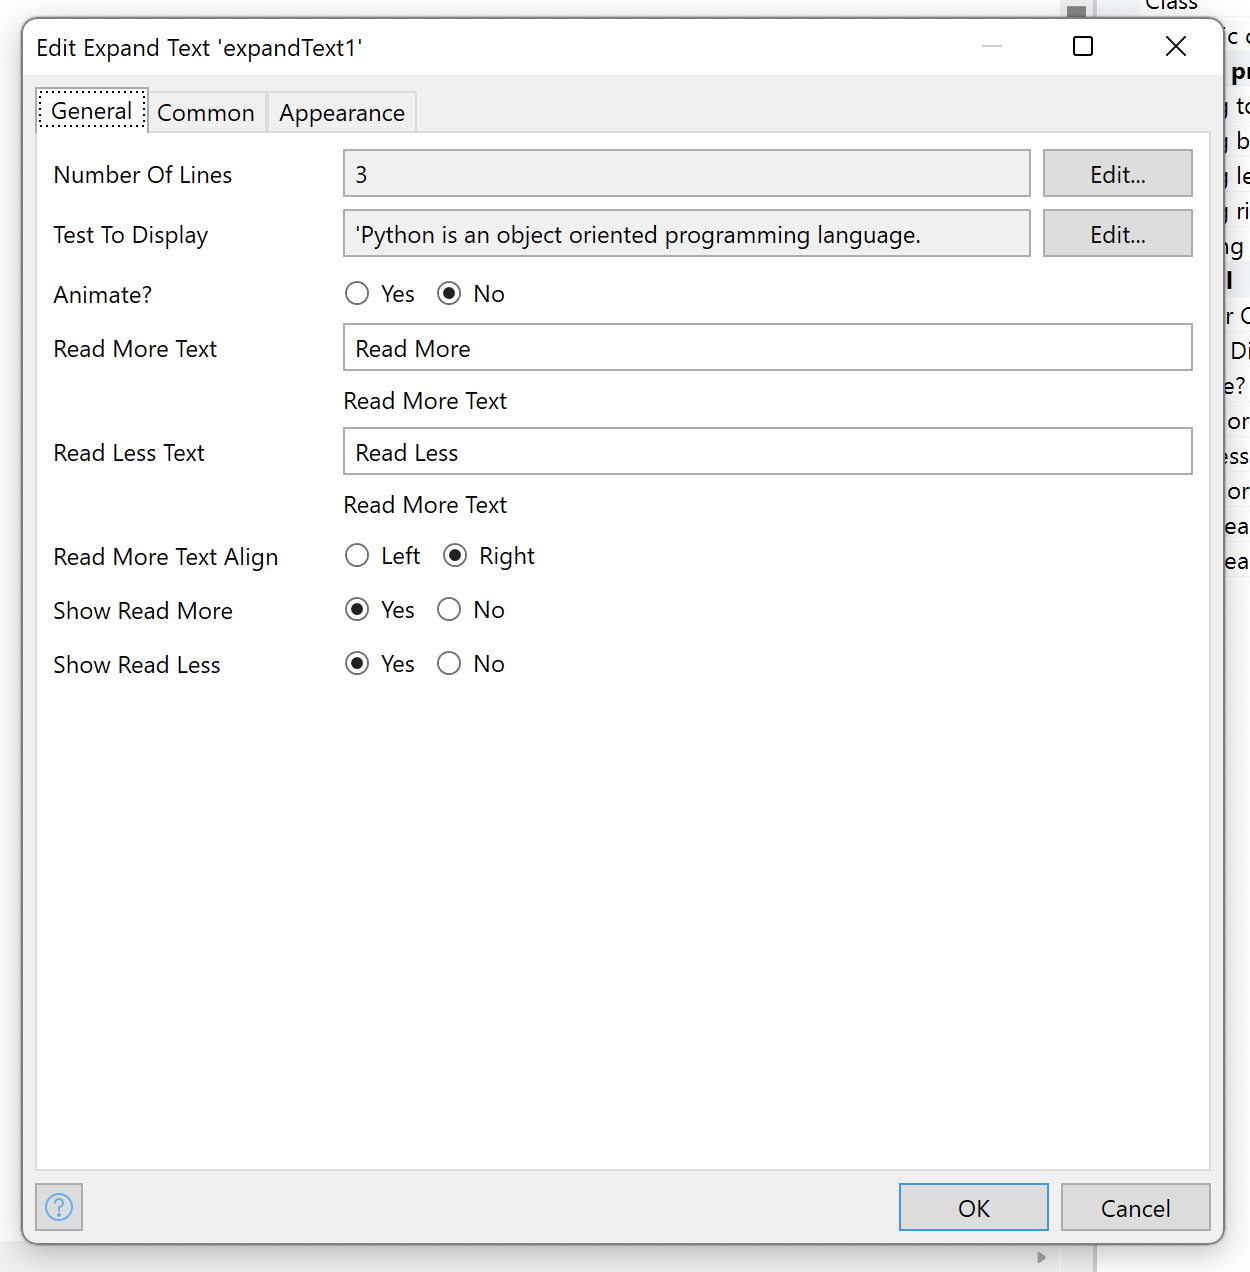
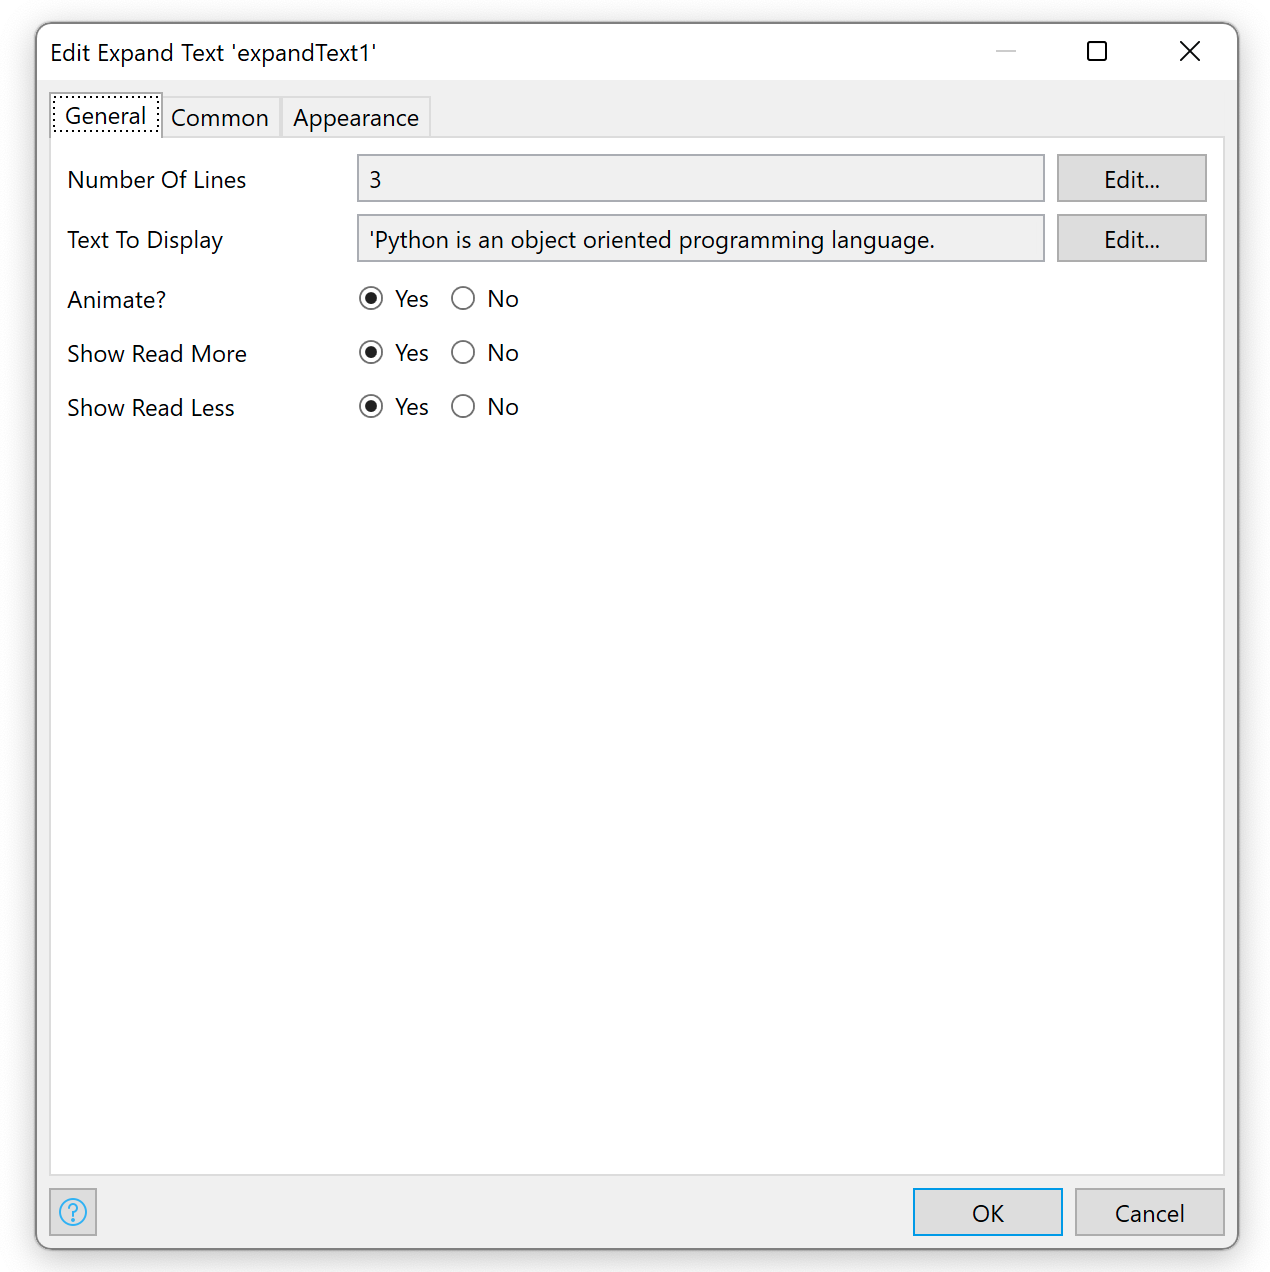
docs: :sparkles: read more docs fixes

Changed region(s): [[0.0, 0.0, 1.0, 1.0], [0.3744, 0.5212, 0.4056, 0.5519]]

diff --git a/apps/native-widgets/expand-text-native-widget/typings/ExpandTextProps.d.ts b/apps/native-widgets/expand-text-native-widget/typings/ExpandTextProps.d.ts
@@ -3,11 +3,9 @@
  * WARNING: All changes made to this file will be overwritten
  * @author Mendix UI Content Team
  */
-import { CSSProperties } from "react";
+import { ComponentType, CSSProperties, ReactNode } from "react";
 import { DynamicValue } from "mendix";
 import { Big } from "big.js";
-
-export type TextAlignEnum = "left" | "right";
 
 export interface ExpandTextProps<Style> {
     name: string;
@@ -15,11 +13,10 @@ export interface ExpandTextProps<Style> {
     toAnimate: boolean;
     numberOfLines: DynamicValue<Big>;
     longText: DynamicValue<string>;
-    readMore: string;
+    readMore?: ReactNode;
     showReadMore: boolean;
-    readLess: string;
     showReadLess: boolean;
-    textAlign: TextAlignEnum;
+    readLess?: ReactNode;
 }
 
 export interface ExpandTextPreviewProps {
@@ -30,9 +27,8 @@ export interface ExpandTextPreviewProps {
     toAnimate: boolean;
     numberOfLines: string;
     longText: string;
-    readMore: string;
+    readMore: { widgetCount: number; renderer: ComponentType<{ caption?: string }> };
     showReadMore: boolean;
-    readLess: string;
     showReadLess: boolean;
-    textAlign: TextAlignEnum;
+    readLess: { widgetCount: number; renderer: ComponentType<{ caption?: string }> };
 }

diff --git a/apps/native-widgets/expand-text-native-widget/src/components/DisplayText.tsx b/apps/native-widgets/expand-text-native-widget/src/components/DisplayText.tsx
@@ -1,25 +1,23 @@
 import React, { ReactElement, createElement, Fragment } from "react";
 
 import { Text, View } from "react-native";
-import { TextAlignEnum } from "typings/ExpandTextProps";
 
 type DisplyTextType = {
     textState: Ran_State;
     lineNumbers: number;
-    readMore: string;
-    reaLess: string;
+    readMore: React.ReactNode;
+    reaLess: React.ReactNode;
     displayText: string;
     showReadMore: boolean;
     showReadLess: boolean;
     disableReadMore: boolean;
-    textAlign: TextAlignEnum;
     setDisableReadMore: React.Dispatch<React.SetStateAction<boolean>>;
 };
 
 type ConDis_DisplyType = {
     lineNumber: number;
     showText: boolean;
-    displayText: string;
+    displayText: React.ReactNode;
 };
 
 export enum Ran_State {
@@ -51,7 +49,7 @@ export const DisplayText = (props: DisplyTextType): ReactElement => {
                 <Fragment></Fragment>
             ) : (
                 <View>
-                    <Text style={{ fontWeight: "bold", textAlign: props.textAlign }}>{textState().displayText}</Text>
+                    <Text>{textState().displayText}</Text>
                 </View>
             )}
         </Fragment>

diff --git a/apps/native-widgets/expand-text-native-widget/src/ExpandText.tsx b/apps/native-widgets/expand-text-native-widget/src/ExpandText.tsx
@@ -17,7 +17,6 @@ export function ExpandText({
     readLess,
     longText,
     readMore,
-    textAlign,
     toAnimate,
     showReadMore,
     showReadLess,
@@ -96,7 +95,6 @@ export function ExpandText({
                             reaLess={readLess}
                             readMore={readMore}
                             textState={textState}
-                            textAlign={textAlign}
                             displayText={textValue}
                             showReadMore={showReadMore}
                             showReadLess={showReadLess}
@@ -139,7 +137,6 @@ export function ExpandText({
                         reaLess={readLess}
                         readMore={readMore}
                         textState={textState}
-                        textAlign={textAlign}
                         displayText={textValue}
                         showReadMore={showReadMore}
                         showReadLess={showReadLess}

diff --git a/apps/native-widgets/expand-text-native-widget/src/components/OffScreenRender.tsx b/apps/native-widgets/expand-text-native-widget/src/components/OffScreenRender.tsx
@@ -3,7 +3,7 @@ import React, { ReactElement, createElement, Fragment, useCallback } from "react
 import { Text, View, useWindowDimensions } from "react-native";
 
 type OffScreenRender = {
-    readMore: string;
+    readMore: React.ReactNode;
     lineNumbers: number;
     displayText: string;
     showReadMore: boolean;

diff --git a/apps/native-widgets/expand-text-native-widget/README.md b/apps/native-widgets/expand-text-native-widget/README.md
@@ -2,7 +2,7 @@
 
 <img width='500' src='https://raw.githubusercontent.com/mendixlabs/app-services-components/main/apps/native-widgets/expand-text-native-widget/assets/read-more-head.png'/>
 
-<p>A Native widget that allows you to truncate text in your native app and when pressed on will expand</p>
+<p>A Native widget that allows you to truncate text in your native app and when pressed will expand</p>
 
 <h4><bold>Note</bold></h4>
 
@@ -25,7 +25,9 @@
 
 ## Setup of In Mendix
 
-<img width='500' src='./assets/exm1.png'/>
+<img width='500' src='https://raw.githubusercontent.com/mendixlabs/app-services-components/main/apps/native-widgets/expand-text-native-widget/assets/exm1.png'/>
+<img width='500' src='https://raw.githubusercontent.com/mendixlabs/app-services-components/main/apps/native-widgets/expand-text-native-widget/assets/exm2.png'/>
+<img width='500' src='https://raw.githubusercontent.com/mendixlabs/app-services-components/main/apps/native-widgets/expand-text-native-widget/assets/exm3.png'/>
 <table style="width:100%">
         <tr>
             <th>Property</th>
@@ -44,10 +46,6 @@
             <td>Text to truncate</td>
         </tr>
         <tr>
-            <td>Read More Text</td>
-            <td>"Read More" Text to display</td>
-        </tr>
-        <tr>
             <td>Show Read More</td>
             <td>Show Read More Button to user</td>
         </tr>
@@ -55,14 +53,15 @@
             <td>Show Read Less</td>
             <td>Show Read Less Button to user</td>
         </tr>
-        <tr>
-            <td>Read More/Less Text Align</td>
-            <td>Choose between Left and Right Text Align</td>
-        </tr>
-       
+
 </table>
+
+<h3>Read more and Read Less Section</h3>
+
+<p>Only place text here as a too big element could break the display</p>
+
 <br/>
 <h3> Technically Note</h3>
 
 The widget calculates the height of the closed text and open height by rendering it off screen and using that as as
-closed and open heights
+closed and open heights. Adding a lot to a page on a slow device could have a performance hit `(O(n))`

diff --git a/apps/native-widgets/lottie-native/README.md b/apps/native-widgets/lottie-native/README.md
@@ -1,8 +1,9 @@
 # Lottie Native Widget for Mendix
 
 <h2><b>Only works with a Custom Mendix Make it Native App</b></h2>
+<p> Read more about that <a href='https://docs.mendix.com/refguide/mobile/distributing-mobile-apps/building-native-apps/native-build-locally/'>here</a>
 
-<img width='500' src='https://raw.githubusercontent.com/mendixlabs/app-services-components/main/apps/native-widgets/expand-text-native-widget/assets/lottie-native-head.png'/>
+<img width='500' src='https://raw.githubusercontent.com/mendixlabs/app-services-components/main/apps/native-widgets/lottie-native/assets/lottie-native-head.png'/>
 
 ## Example
 
@@ -49,7 +50,7 @@
         <tr>
             <td>Control Type</td>
             <td><b>Uncontrolled (Sequential):</b> You define the frames to play, the animation will sequentially follow the animation path you define. <br/> <br/>
-            <b>Controlled:</b> You define the frames to play, the animation will sequentially follow the animation path you define
+            <b>Controlled:</b> You control the Frames by changing parameters on the fly
             </td>
         </tr>
 </table>
@@ -101,7 +102,7 @@
             <td>Frame to start section at</td>
         </tr>
         <tr>
-            <td>End Frame<code>expression</code></td>
+            <td>End Frame <code>expression</code></td>
             <td>Frame to End section at</td>
         </tr>
         <tr>
